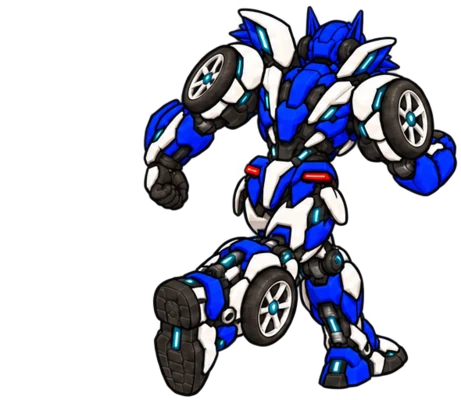
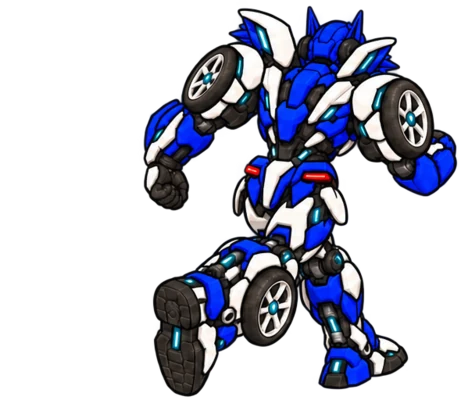
変形ロボの歩きアニメ：頭の位置のずれを補正
Claude-Session: https://claude.ai/code/session_01JQbieebtHyf6QQqoB4ah2K

Claude-Session: https://claude.ai/code/session_01FPBx44a2EdMEPxJYUVZacn

Changed region(s): [[0.3037, 0.0, 1.0, 1.0]]

diff --git a/dev/src-index.html b/dev/src-index.html
@@ -1267,7 +1267,7 @@ SPR.trolley=sprSet('trolley',{back:[1.25*1.0785,1.25],diag:[1.35*1.4428,1.35],si
 SPR.handcar=sprSet('handcar',{back:[1.45*1.036,1.45],diag:[1.6*1.4053,1.6],side:[2.7,2.7/2.0176],front:[1.45*1.0112,1.45]},{back:.8,diag:.8,side:.4,front:.8},.3);
 SPR.sweeper=sprSet('sweeper',{back:[2.6*1.1933,2.6],diag:[2.8*1.8139,2.8],side:[5.2,5.2/1.8734],front:[2.6*1.3403,2.6]},{back:2.2,diag:1.9,side:.6,front:2.2},.47);
 SPR.tf=sprSet('tf',{back:[1.2*1.7841,1.2],diag:[1.9*1.8861,1.9],side:[4.5,4.5/2.8647],front:[1.2*1.7515,1.2]},{back:1.4,diag:1.4,side:.6,front:1.4},.52);
-SPR.tfr=sprSet('tfr',{back:[4.6*.7475,4.6],diag:[4.6*.6548,4.6],side:[4.6*.8847,4.6],front:[4.6*.7392,4.6]},{back:1.0,diag:1.0,side:.6,front:1.0},.52);SPR.tfr.cockpit='cars/tf-cockpit.webp';SPR.tfrWalk={back:[0,1,2,3].map(k=>sprTex('cars/tfr-walk'+k+'.webp')),diag:[0,1,2,3].map(k=>sprTex('cars/tfr-walk-diag'+k+'.webp')),side:[0,1,2,3].map(k=>sprTex('cars/tfr-walk-side'+k+'.webp'))};SPR.tfrWalkSize={back:[4.6*.8275,4.6],diag:[5.328,4.623],side:[5.097,4.45]};
+SPR.tfr=sprSet('tfr',{back:[4.6*.7475,4.6],diag:[4.6*.6548,4.6],side:[4.6*.8847,4.6],front:[4.6*.7392,4.6]},{back:1.0,diag:1.0,side:.6,front:1.0},.52);SPR.tfr.cockpit='cars/tf-cockpit.webp';SPR.tfrWalk={back:[0,1,2,3].map(k=>sprTex('cars/tfr-walk'+k+'.webp')),diag:[0,1,2,3].map(k=>sprTex('cars/tfr-walk-diag'+k+'.webp')),side:[0,1,2,3].map(k=>sprTex('cars/tfr-walk-side'+k+'.webp'))};SPR.tfrWalkSize={back:[3.826,4.623],diag:[5.409,4.612],side:[4.993,4.438]};
 SPR.parade=sprSet('parade',{back:[2.9*1.2734,2.9],diag:[3.1*1.4293,3.1],side:[5.0,5.0/1.5756],front:[2.9*1.0203,2.9]},{back:2.0,diag:1.8,side:.6,front:2.0},.5);
 SPR.junk=sprSet('junk',{back:[2.15*.9235,2.15],diag:[2.4*1.3798,2.4],side:[3.5,3.5/1.5933],front:[2.15*.9666,2.15]},{back:1.2,diag:1.2,side:.5,front:1.2},.51);
 SPR.sl=sprSet('sl',{back:[3.6*1.1221,3.6],diag:[4.1*1.5234,4.1],side:[8.0,8.0/1.8018],front:[3.6*.886,3.6]},{back:3.6,diag:2.8,side:.8,front:3.6},.55);

diff --git a/index.html b/index.html
@@ -1284,7 +1284,7 @@ SPR.trolley=sprSet('trolley',{back:[1.25*1.0785,1.25],diag:[1.35*1.4428,1.35],si
 SPR.handcar=sprSet('handcar',{back:[1.45*1.036,1.45],diag:[1.6*1.4053,1.6],side:[2.7,2.7/2.0176],front:[1.45*1.0112,1.45]},{back:.8,diag:.8,side:.4,front:.8},.3);
 SPR.sweeper=sprSet('sweeper',{back:[2.6*1.1933,2.6],diag:[2.8*1.8139,2.8],side:[5.2,5.2/1.8734],front:[2.6*1.3403,2.6]},{back:2.2,diag:1.9,side:.6,front:2.2},.47);
 SPR.tf=sprSet('tf',{back:[1.2*1.7841,1.2],diag:[1.9*1.8861,1.9],side:[4.5,4.5/2.8647],front:[1.2*1.7515,1.2]},{back:1.4,diag:1.4,side:.6,front:1.4},.52);
-SPR.tfr=sprSet('tfr',{back:[4.6*.7475,4.6],diag:[4.6*.6548,4.6],side:[4.6*.8847,4.6],front:[4.6*.7392,4.6]},{back:1.0,diag:1.0,side:.6,front:1.0},.52);SPR.tfr.cockpit='cars/tf-cockpit.webp';SPR.tfrWalk={back:[0,1,2,3].map(k=>sprTex('cars/tfr-walk'+k+'.webp')),diag:[0,1,2,3].map(k=>sprTex('cars/tfr-walk-diag'+k+'.webp')),side:[0,1,2,3].map(k=>sprTex('cars/tfr-walk-side'+k+'.webp'))};SPR.tfrWalkSize={back:[4.6*.8275,4.6],diag:[5.328,4.623],side:[5.097,4.45]};
+SPR.tfr=sprSet('tfr',{back:[4.6*.7475,4.6],diag:[4.6*.6548,4.6],side:[4.6*.8847,4.6],front:[4.6*.7392,4.6]},{back:1.0,diag:1.0,side:.6,front:1.0},.52);SPR.tfr.cockpit='cars/tf-cockpit.webp';SPR.tfrWalk={back:[0,1,2,3].map(k=>sprTex('cars/tfr-walk'+k+'.webp')),diag:[0,1,2,3].map(k=>sprTex('cars/tfr-walk-diag'+k+'.webp')),side:[0,1,2,3].map(k=>sprTex('cars/tfr-walk-side'+k+'.webp'))};SPR.tfrWalkSize={back:[3.826,4.623],diag:[5.409,4.612],side:[4.993,4.438]};
 SPR.parade=sprSet('parade',{back:[2.9*1.2734,2.9],diag:[3.1*1.4293,3.1],side:[5.0,5.0/1.5756],front:[2.9*1.0203,2.9]},{back:2.0,diag:1.8,side:.6,front:2.0},.5);
 SPR.junk=sprSet('junk',{back:[2.15*.9235,2.15],diag:[2.4*1.3798,2.4],side:[3.5,3.5/1.5933],front:[2.15*.9666,2.15]},{back:1.2,diag:1.2,side:.5,front:1.2},.51);
 SPR.sl=sprSet('sl',{back:[3.6*1.1221,3.6],diag:[4.1*1.5234,4.1],side:[8.0,8.0/1.8018],front:[3.6*.886,3.6]},{back:3.6,diag:2.8,side:.8,front:3.6},.55);

diff --git a/sw.js b/sw.js
@@ -1,5 +1,5 @@
 // DDDV オフライン用。更新のたびに VERSION が変わり、古い保存は消える
-const VERSION='c832a261e2';
+const VERSION='e34e3c92af';
 const CACHE='dddv-'+VERSION;
 const CORE=['./','./index.html','./manifest.webmanifest','./icons/icon-192.png','./icons/icon-512.png',
   'https://cdnjs.cloudflare.com/ajax/libs/three.js/r128/three.min.js',

diff --git a/HANDOFF.md b/HANDOFF.md
@@ -128,7 +128,7 @@
 - 不用品回収の軽トラ（`type:'junk'`）：荷物5個スタート。速度5未満でH＝回収（最大9個）、走行中はアナウンスのみ。ドリフト1.8秒ごと・強くぶつける（damage≥5）と1個落とし、後ろ60m以内のCPUを1.6秒止める（`junkDrop`）。1個ごとに加速−4%、ゴールで1個150P（`junkBonus`）
 - 路面清掃車（`type:'sweeper'`）：Hでブラシ切替（最高速0.65、20mごとにゴミ1個、1個12P・最大1500P、`sweepBonus`）。黄色い回転灯（`userData.amber`）
 - 清楚パレードカー（`type:'parade'`、リリィさんと海音ちゃん）：清楚度100から、ぶつける・ドリフト0.8秒・急ブレーキ0.8秒ごとに減る（`seisoDown`）。ゴールで清楚度×12P。Hで手を振る（8秒に1回、近くのCPU1.3秒減速＋一般車が道をあける）
-- ブルーアームズ（`type:'tf'`）：Hで変形（1.5秒後に切替、`transform`→毎フレーム `stepTf`。setTimeout ではなくゲーム時間で進める）。ロボ（`car.robo`、絵 `SPR.tfr`）は加速0.6・最高速0.5・その場旋回・ゴミ収集車と同じ押しのけ（`PK`）・ダメージ0.15倍。変形中は加速0.2。ロボで走ると後ろ・斜め・横が4コマの歩きアニメ（`tfr-walk0〜3` / `tfr-walk-diag0〜3` / `tfr-walk-side0〜3`、`SPR.tfrWalk[view]`、`car.walkD` 1.8mごとにコマ送り、`updateSprite` 内）
+- ブルーアームズ（`type:'tf'`）：Hで変形（1.5秒後に切替、`transform`→毎フレーム `stepTf`。setTimeout ではなくゲーム時間で進める）。ロボ（`car.robo`、絵 `SPR.tfr`）は加速0.6・最高速0.5・その場旋回・ゴミ収集車と同じ押しのけ（`PK`）・ダメージ0.15倍。変形中は加速0.2。ロボで走ると後ろ・斜め・横が4コマの歩きアニメ（`tfr-walk0〜3` / `tfr-walk-diag0〜3` / `tfr-walk-side0〜3`、`SPR.tfrWalk[view]`、元絵の頭の位置が最大12pxずれていたので頭を基準に位置合わせ済み、`car.walkD` 1.8mごとにコマ送り、`updateSprite` 内）
 - **テストの注意**：dev/sim のハーネスでは setTimeout がレース後まで実行されないので、ギミックの状態変化はゲーム時間（game.t）で進める
 - **止まりやすく**：車はブレーキで止まったら0.6秒はその場で停止（坂でも）、押し続けるとバック（`car.bHold`）。ほぼ止まっていてアクセル・ブレーキなしなら止まったまま（教習所モードは除く、坂道発進の練習のため）
 - **電車のノッチ式ブレーキ**（電車モード）：↓で1段強く・↑で1段弱く（押しっぱなしで連続、`car.notch` 0〜8、`denDec(n)=.7+n*.45` m/s²）。B0の時だけ↑で加速。発車時に自動でB0。HUDに「このままだと手前○m／行きすぎ○m」とB0時の「おすすめノッチ」。電車モードの加速は0.75倍
